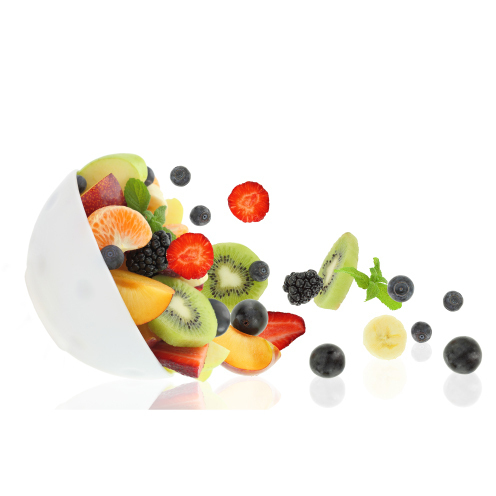
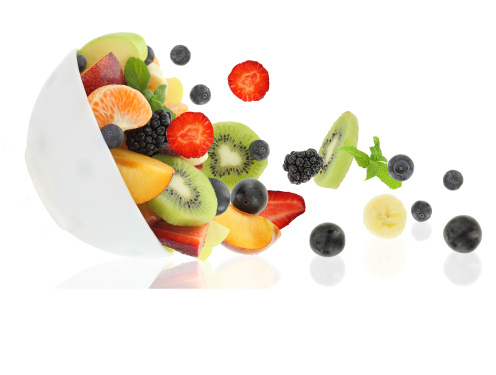
design

diff --git a/css/style.css b/css/style.css
@@ -205,7 +205,7 @@ header .book-now{
         width: 49%;
 }
 .treatment-list .img-height{
-   height: 290px;
+   height: 249px;
 }
 .explore-btn{
       background-color: #45C2C9;

diff --git a/index.php b/index.php
@@ -134,7 +134,7 @@
          </div>   
          <div class="col-md-4">
           <div class="img-height">
-              <img src="./images/Boosters.jpg" class="img-fluid"> 
+              <img src="./images/Boosters.png" class="img-fluid mt-md-5"> 
           </div>      
          </div>   
          <div class="col-md-4">
